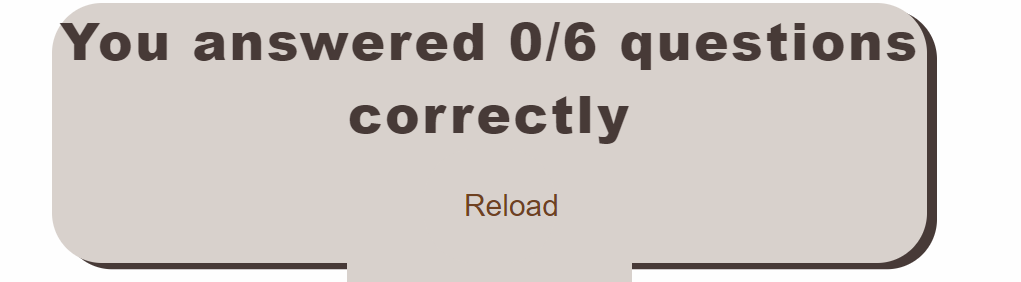
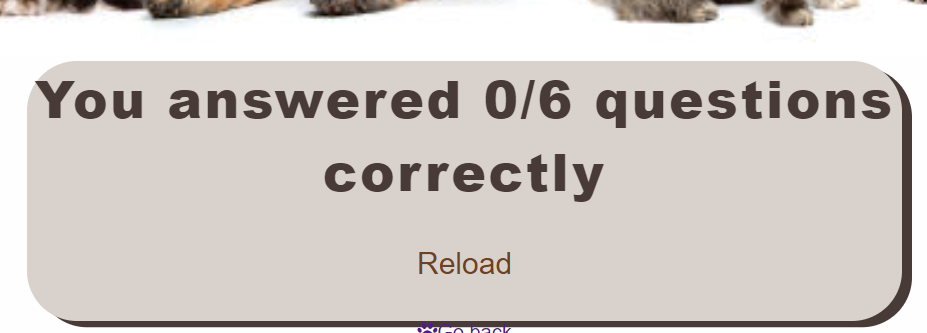
uppdated read me

diff --git a/README.md b/README.md
@@ -84,9 +84,10 @@ The images have been selected according to the question topic The purpose of the
 
 <img width="760" alt="" src="assets/images/question.png">
 
-- The end of the quiz shows us the amount of questions we answered correctly out of 6 questions. And it also includes a 'Reload' button which will bring you to the first question again and it will reset the timer for you to try the quiz again! 
+- The end of the quiz shows us the amount of questions we answered correctly out of 6 questions. And it also includes a 'Reload' button which will bring you to the first question again and it will reset the timer for you to try the quiz again! Or you select the Go back button and get to the start page.
 
 <img width="760" alt="" src="assets/images/relode.png">
+<img width="760" alt="" src="assets/images/goback.png">
 
 # Technologies Used 
 - HTML
